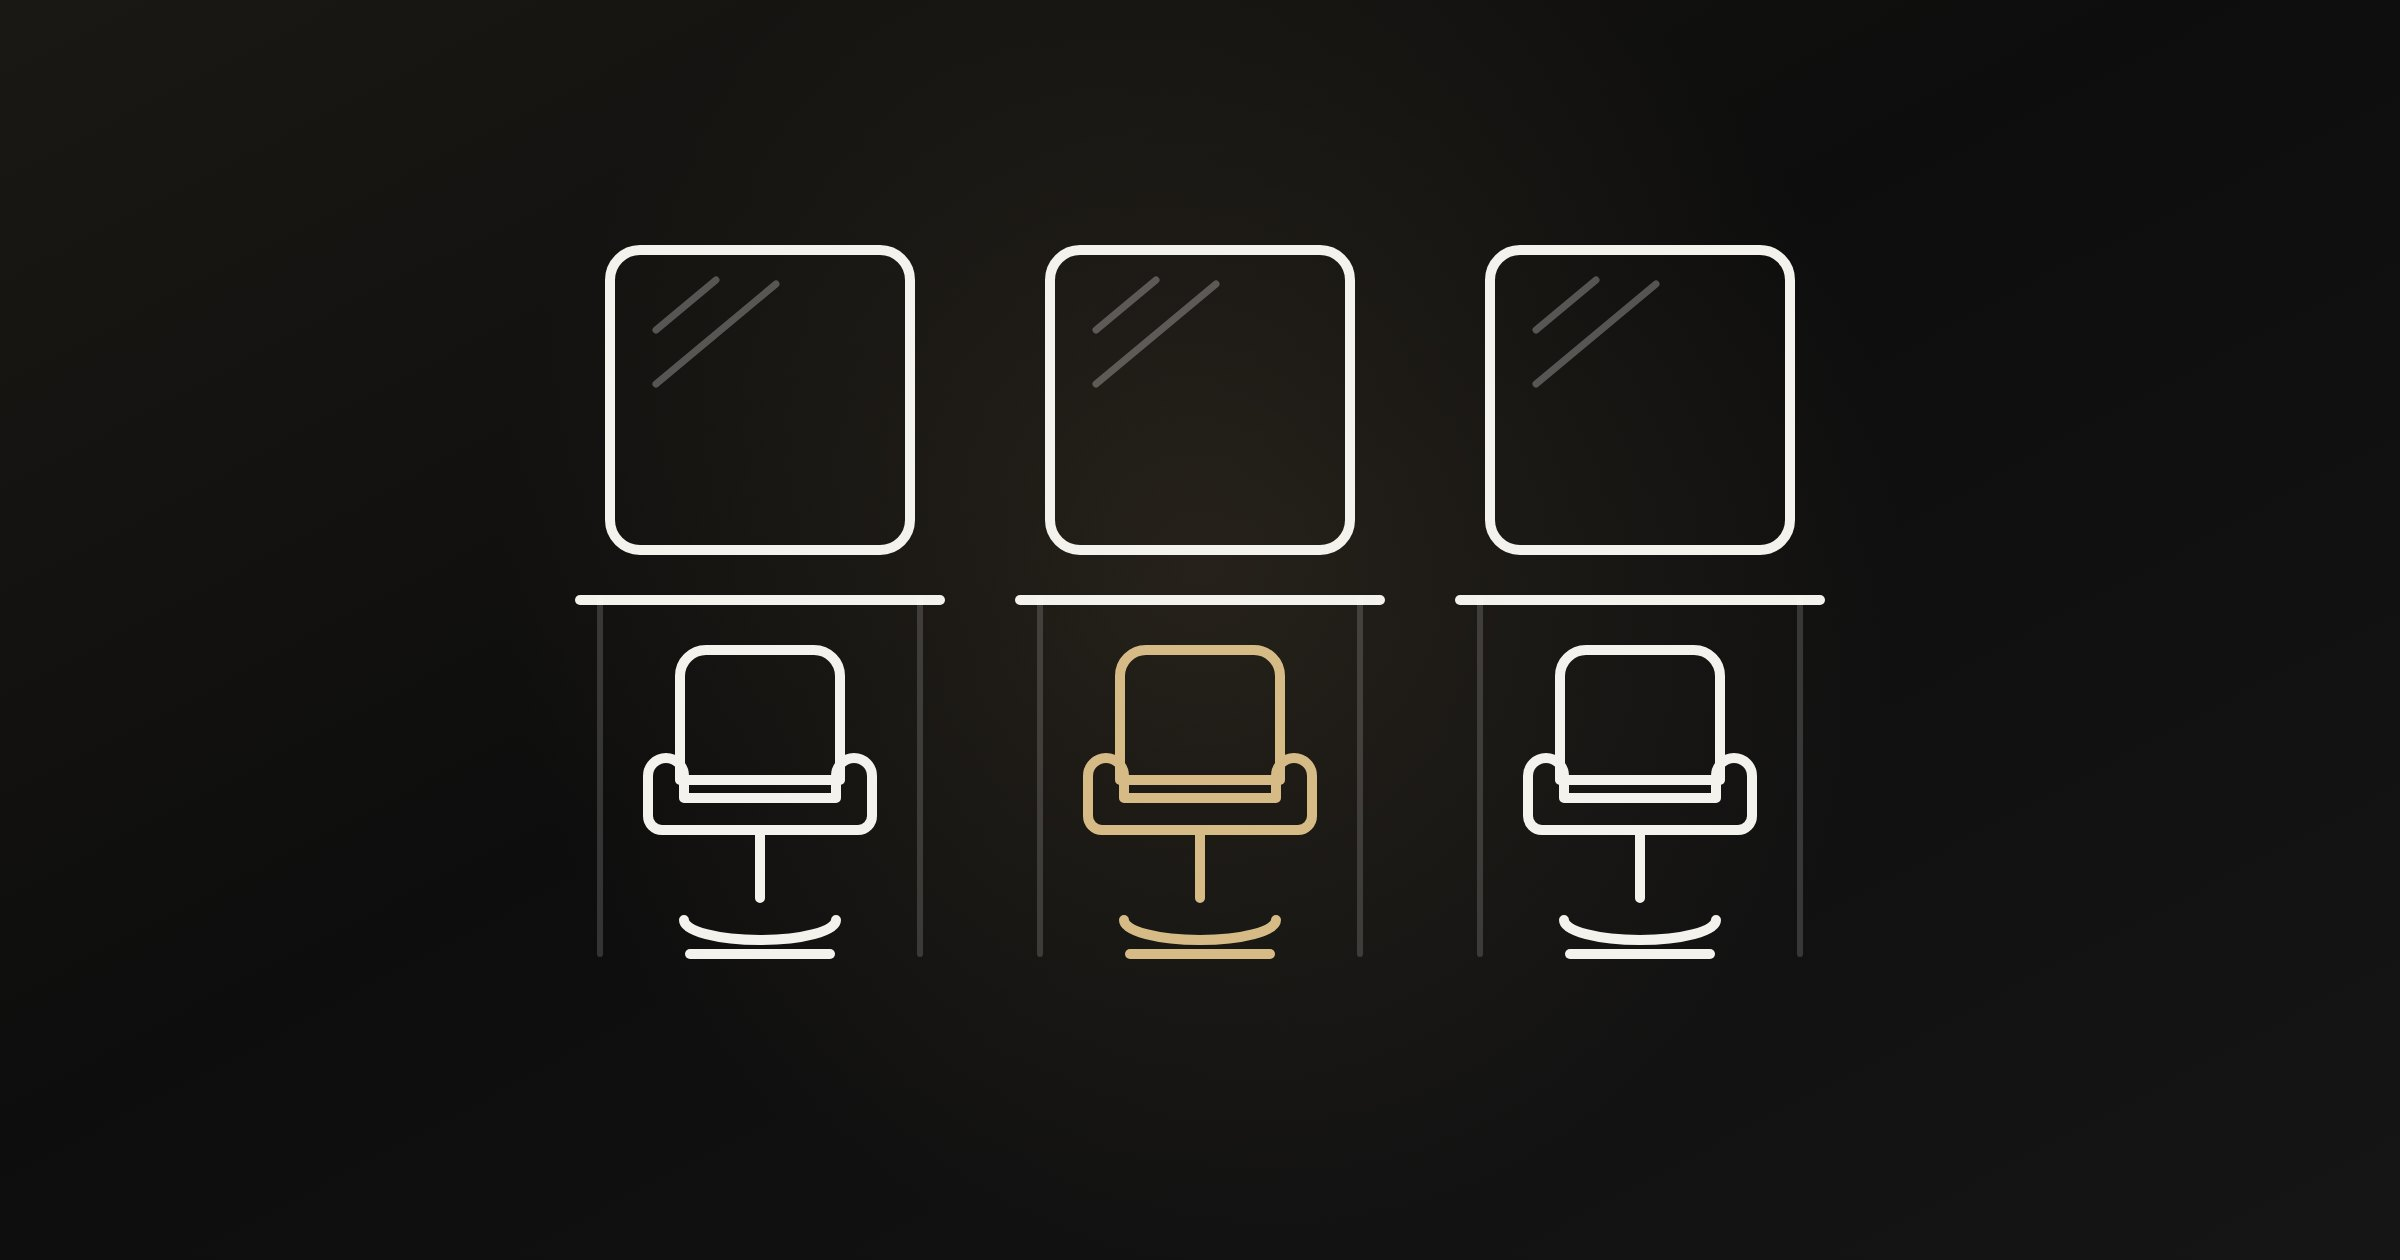
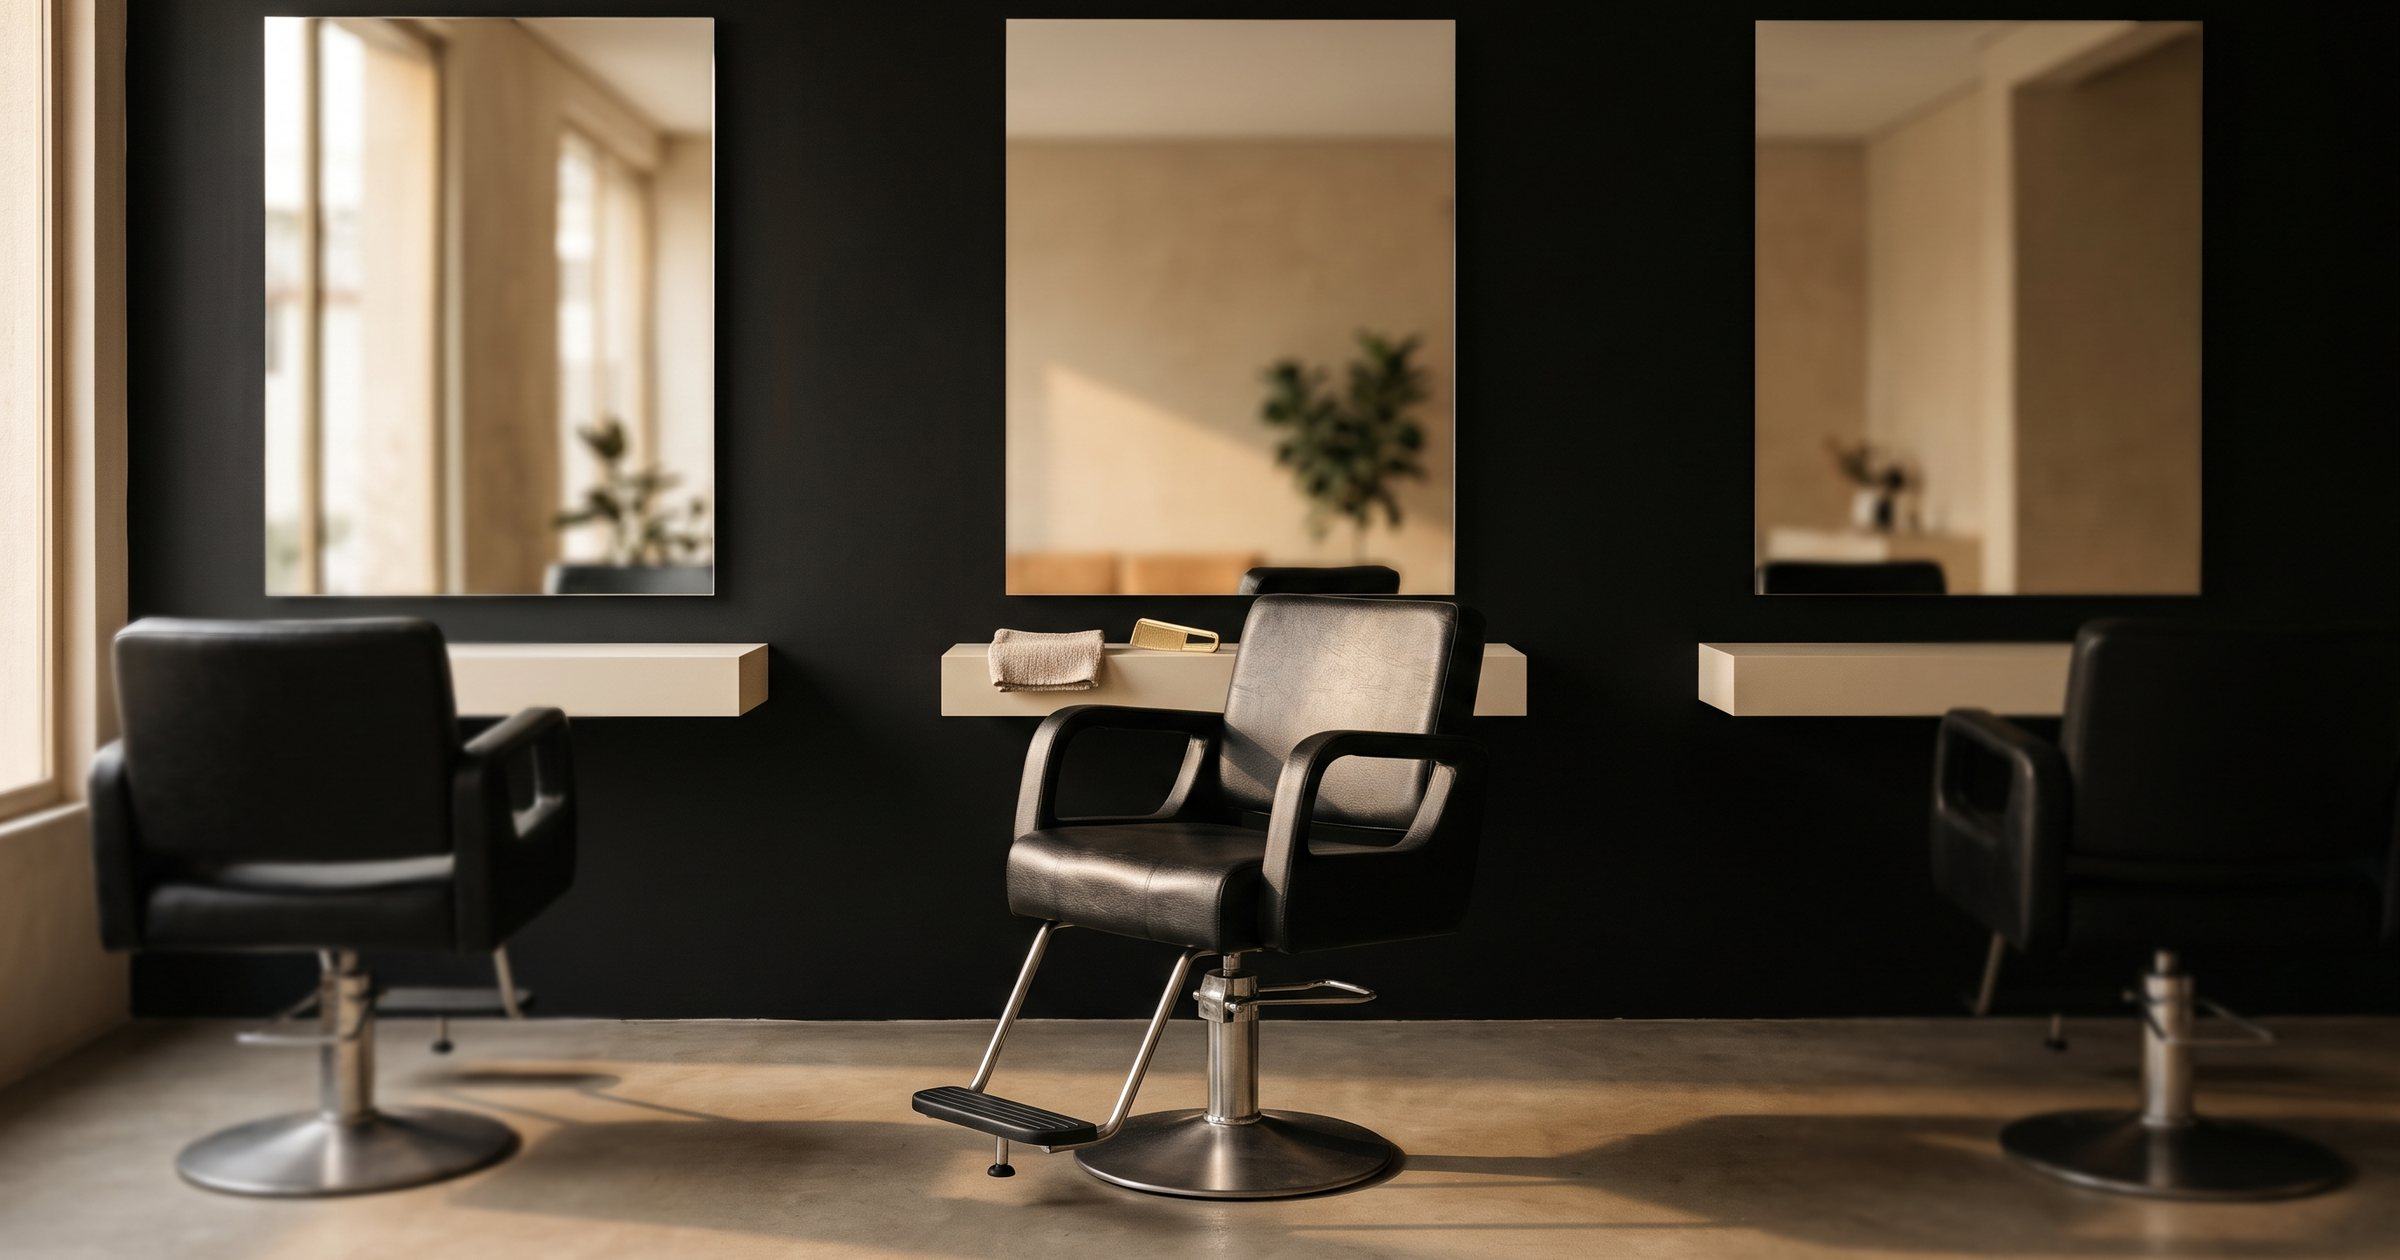
feat(blog): capas em foto (Nano Banana) nos posts de odonto, salão e regras
Claude-Session: https://claude.ai/code/session_01LLhRPL6ZAoZHg8iNxkRfiU

diff --git a/src/data/blog/coworking-odontologico-cadeira-ociosa.md b/src/data/blog/coworking-odontologico-cadeira-ociosa.md
@@ -7,7 +7,7 @@ date: "2026-10-30"
 author: "Fernando Sousa"
 category: "Nichos & Atendimento"
 image: "/blog/odonto_cover.jpg"
-imageAlt: "Ilustração de cadeira odontológica com grade de turnos da semana"
+imageAlt: "Consultório odontológico vazio com cadeira, refletor e armário preto, à luz do fim da tarde"
 ---
 
 Quantos turnos por semana a sua cadeira fica parada?

diff --git a/src/data/blog/salao-cadeira-vazia-falta-cliente-ou-profissional.md b/src/data/blog/salao-cadeira-vazia-falta-cliente-ou-profissional.md
@@ -7,7 +7,7 @@ date: "2026-10-30"
 author: "Fernando Sousa"
 category: "Nichos & Atendimento"
 image: "/blog/salao_cover.jpg"
-imageAlt: "Ilustração de cadeira de salão vazia diante de um espelho"
+imageAlt: "Salão de beleza com três estações e a cadeira do meio vazia em frente ao espelho"
 ---
 
 Toda cadeira vazia parece o mesmo problema. Não é.

diff --git a/src/data/blog/como-alugar-sala-por-hora-regras-e-modelo.md b/src/data/blog/como-alugar-sala-por-hora-regras-e-modelo.md
@@ -7,7 +7,7 @@ date: "2026-10-30"
 author: "Fernando Sousa"
 category: "Dicas para Hosts"
 image: "/blog/regras_cover.jpg"
-imageAlt: "Ilustração de porta de sala com folha de regras e lista marcada"
+imageAlt: "Porta preta de sala com uma folha de regras presa por fita dourada"
 ---
 
 Alugar sala por hora parece simples até a primeira reserva.
